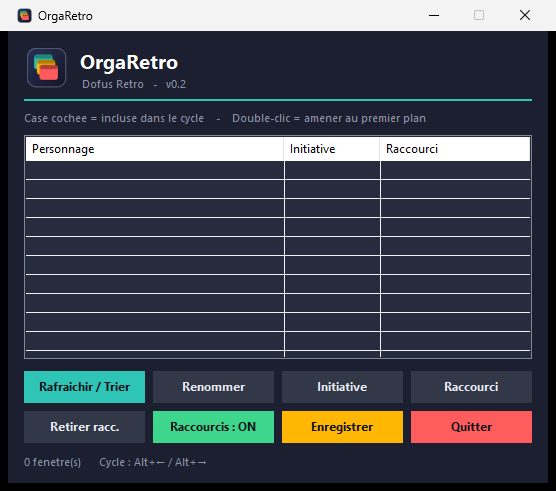
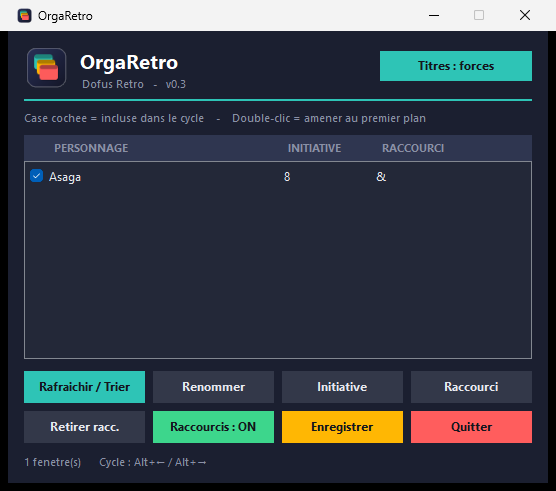
Add files via upload

diff --git a/README.md b/README.md
@@ -23,6 +23,8 @@ Navigue et organise tes fenêtres multi-comptes en un clin d'œil.
 - 🎯 **Raccourci direct par personnage** avec **capture automatique de la touche**
 - ✅ **Activation/désactivation** de chaque fenêtre dans le cycle (case à cocher)
 - 🟢 **Bouton ON/OFF global** pour couper tous les raccourcis d'un coup
+- 🏷️ **Forçage des titres** : renomme les fenêtres avec le nom du personnage
+  (pour les différencier dans la barre des tâches / Alt+Tab)
 - 💾 Sauvegarde de la configuration
 - 🖱️ Icône dans la barre système (tray)
 
@@ -55,6 +57,9 @@ Navigue et organise tes fenêtres multi-comptes en un clin d'œil.
 
 Le bouton **Raccourcis : ON/OFF** coupe ou réactive tous les raccourcis (pratique
 pour taper normalement en jeu).
+
+Le bouton **Titres : libres / forcés** (en haut à droite) renomme les fenêtres
+avec le nom de chaque personnage, pour les reconnaître facilement.
 
 ## ⚖️ Avertissement
 